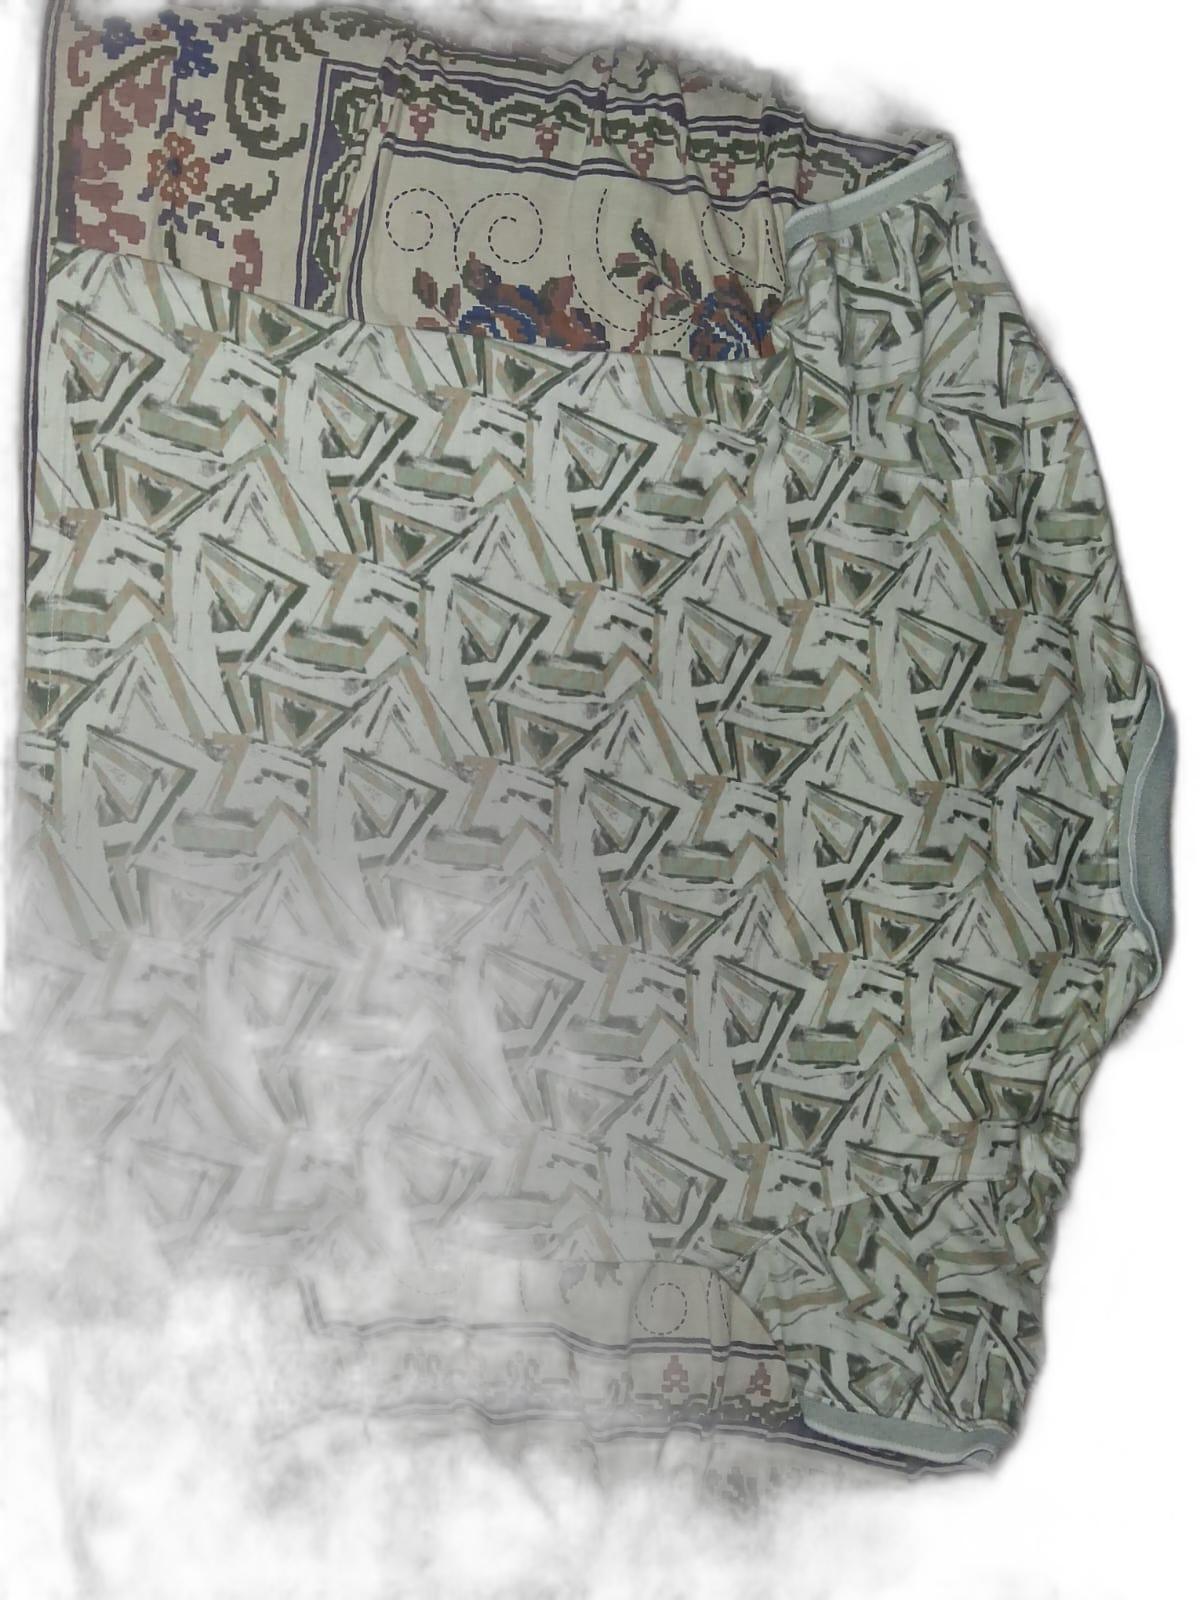
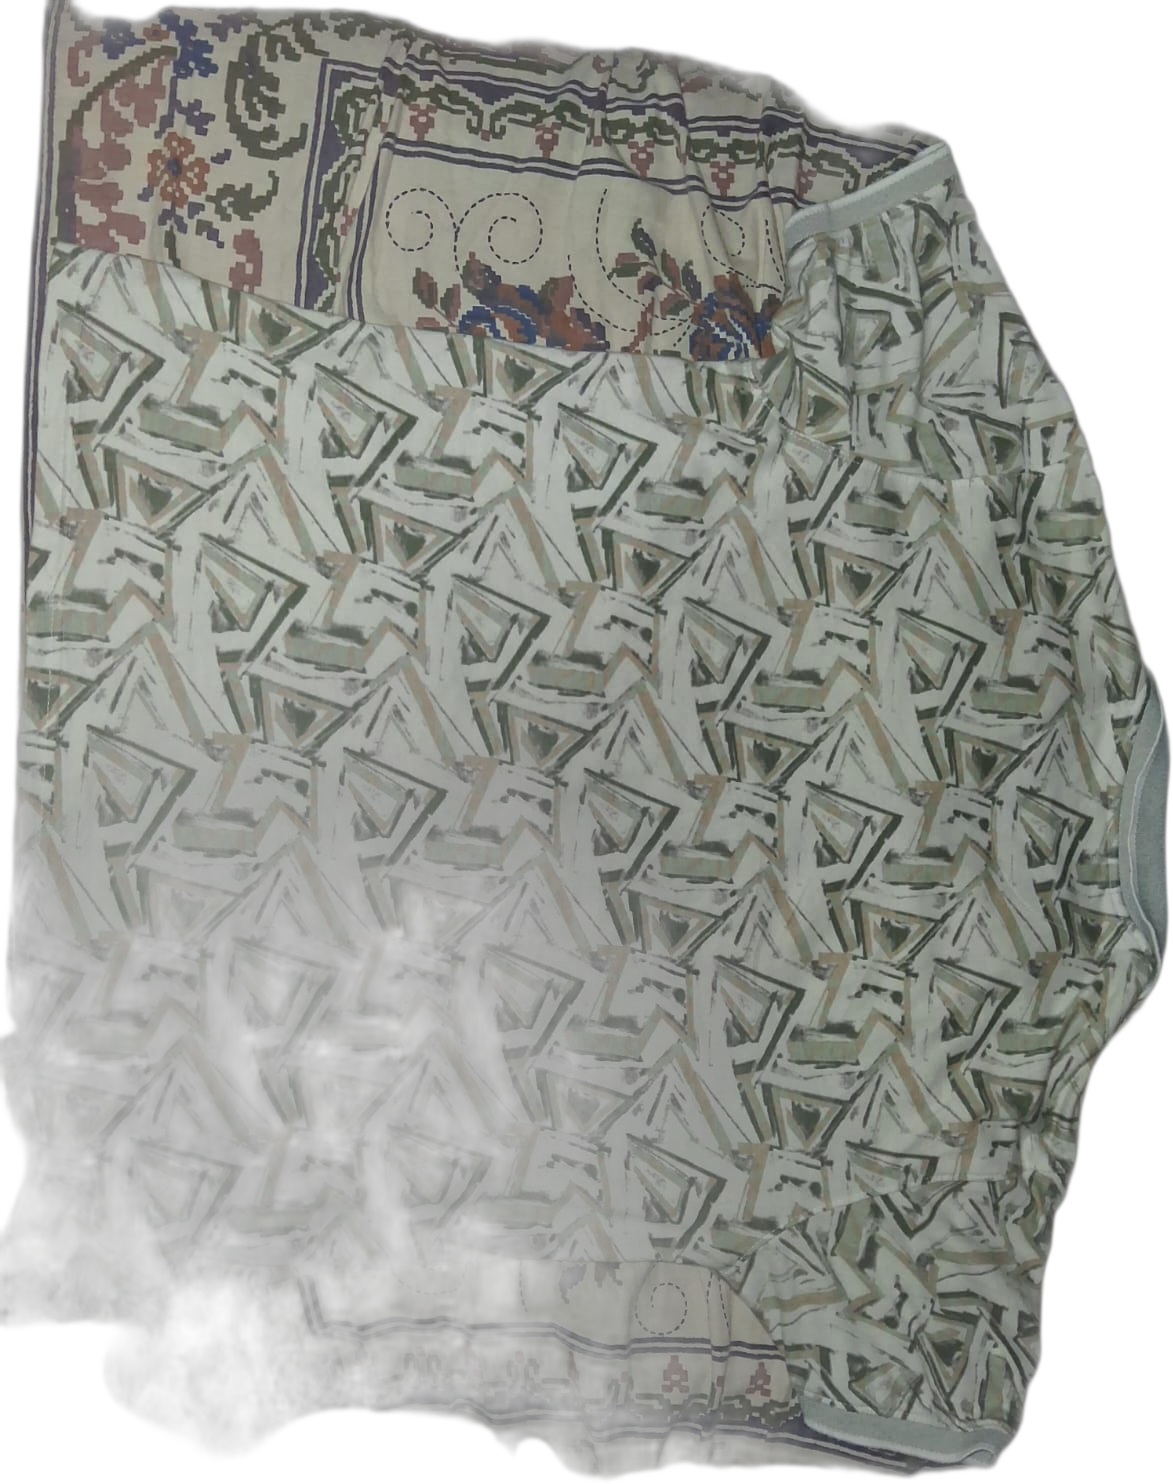
correcting Return Details Saving In SQL Table

diff --git a/DatabaseHandling.py b/DatabaseHandling.py
@@ -16,6 +16,9 @@ def generate_order_id():
 def add_similarity_data(order_id,similarity,status):
     conn=create_database()
     cursor=conn.cursor()
+    results=cursor.execute("""SELECT * FROM ORDERS WHERE ORDER_ID=?""",(order_id)).fetchone()
+    if results[0] is not None:
+        return
     cursor.execute("""INSERT INTO Orders(Order_ID, Similarity_Score, Status) values(?,?,?)""",(order_id,similarity,status)) 
     conn.commit()
     return
